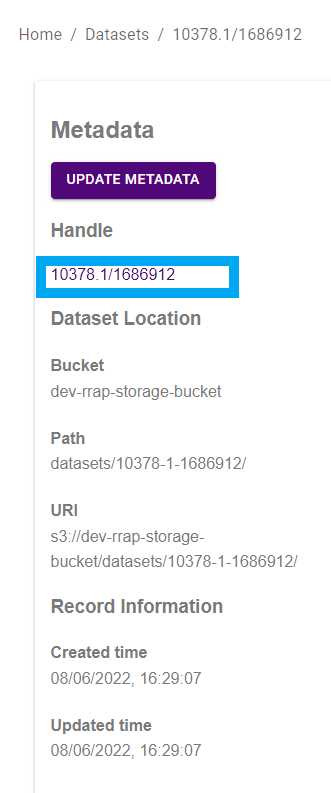
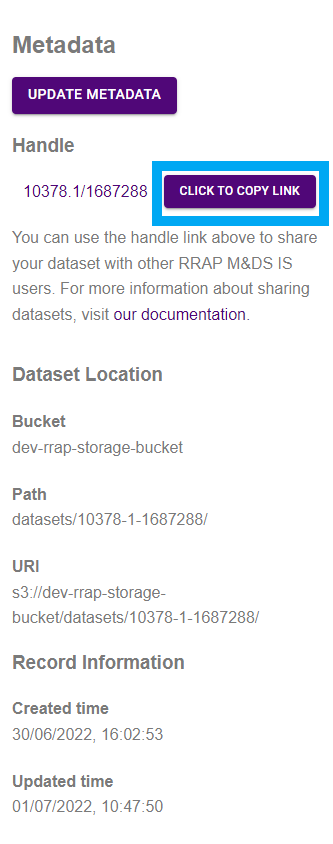
updated Collaboration part of documentation

diff --git a/information-system/data-store/viewing-a-dataset.md b/information-system/data-store/viewing-a-dataset.md
@@ -73,19 +73,19 @@ The metadata page has the following information
 - **JSON Metadata**
 
 ## Collaborating
-Users can share the dataset with others using the Handle link. The Handle link is a persitent digital identifier for the dataset. See [About digital object identifiers](../digital-object-identifiers.md.html){:target="\_blank"} for more information.
-Using the Handle link to share data is an easy way of sharing files. Updates to the data can be made and the user with the link will always have access the most up to date data.
+Users can share the dataset with others using the Handle link. Using the Handle link to share data is an easy way of sharing files as updates to the data can be made and the user with the link will always have access the most up to date data.
+The Handle link is a persitent digital identifier for the dataset. See [About digital object identifiers](../digital-object-identifiers.md.html){:target="\_blank"} for more information.  
+  
+To share, click on the *Click to copy link* button. Then paste the link into an email, document etc... that is to be shared with other RRAP M&DS IS users. 
 
 |                                     Share dataset                           |
 | :-------------------------------------------------------------------------: |
 |<img src="../../assets/images/shareDataset.png" alt="drawing" width="200" align ="left"/>      | 
-
-To share, right click on the link and select *Copy link*. Then paste into email, document etc... that is to be shared with others. 
+ 
 
 {% include notes.html content=" Users <strong>must</strong> to be logged into the RRAP M&DS Information System to be able to access the data. Users without an Information System account will need to create one before viewing the data." %}
 
-The **Dataset location information** relates to the storage location on the AWS S3 server.
-The JSON Metadata can be expanded and the information copied by first clicking **Expand details**, then the **copy** button. To close the expanded view, click on **Expand details** again.
+Underneath the Handle link, the **Dataset Location** information relates to the storage location on the AWS S3 server. The **Record Information** gives the user the date and time of the creation of the metadata record, with any updates to the metadata record shown under *Updated time*.
 
-On the right hand side of the page, Users can also [download the dataset](../data-store/downloading-datasets.html){:target="\_blank"} and [upload additional data](../data-store/registering-and-uploading-a-dataset.html){:target="\_blank"} by clicking the corresponding tabs.
+On the right hand side of the page, Users have an overview of the the metadata and can also [download the dataset](../data-store/downloading-datasets.html){:target="\_blank"} and [upload additional data](../data-store/registering-and-uploading-a-dataset.html){:target="\_blank"} by clicking the corresponding tabs. The **JSON Metadata** can be expanded (so the information can be viewed or copied) by clicking on the *Expand details* button. To close, click the *Expand details* button again. 
 
